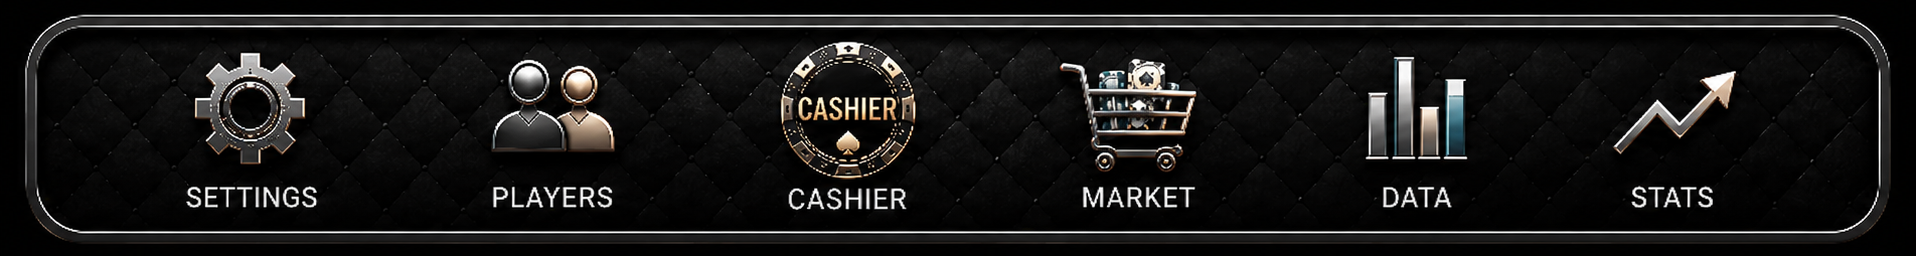
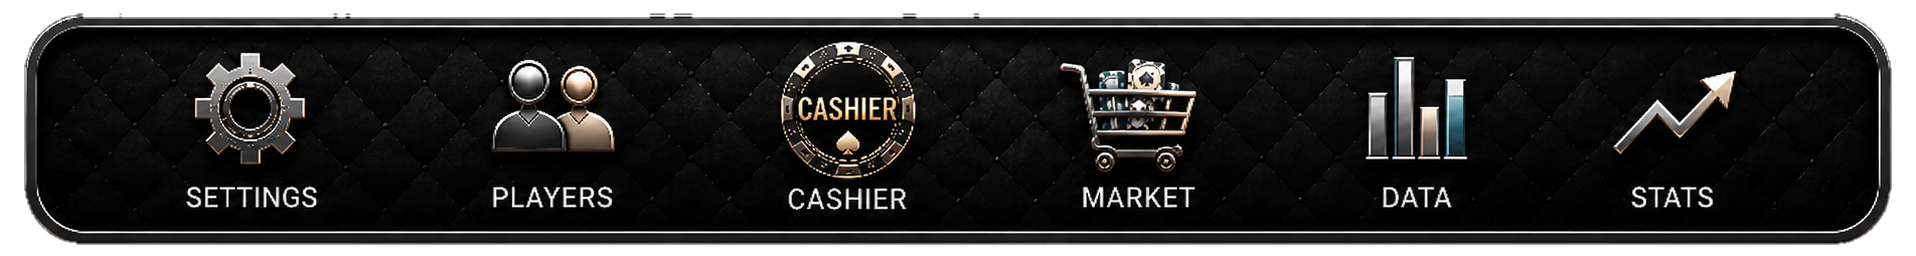
fix(footer): give the frame its own transparency and fill the box on both axes (#2944)
The 1916x256 canvas was opaque, so the four corners outside the frame's
curve painted as black squares on the page, and the canvas's 14px top
gutter drew a black band above the frame because .artworkImage overscanned
horizontally but not vertically.

The asset is re-encoded lossless with an alpha channel (RGB byte-identical
wherever alpha is non-zero; 345KB against the previous 369KB), both
backgrounds are transparent, and the measured frame rect now covers the
footer box on both axes. The footer's own size is unchanged.

Dan, 2026-09-04: "YOU NEED TO CLIP THE BACKGROUND AROUND THE EDGES OF THE
FOOTER FRAME."

Changed region(s): [[0.0, 0.0, 1.0, 1.0]]

diff --git a/tests/footer-clearance.test.ts b/tests/footer-clearance.test.ts
@@ -58,8 +58,20 @@ describe('global Club Arena footer mounting and clearance', () => {
     expect(css).toMatch(/\.viewport\s*\{[\s\S]*?overflow:\s*hidden/);
     expect(css).toMatch(/\.artwork\s*\{[\s\S]*?width:\s*100%/);
     expect(css).toMatch(/\.artwork\s*\{[\s\S]*?height:\s*var\(--bottom-nav-height/);
-    expect(css).toMatch(/\.artworkImage\s*\{[\s\S]*?width:\s*102\.68%/);
-    expect(css).toMatch(/\.artworkImage\s*\{[\s\S]*?transform:\s*translateX\(-50%\)/);
+    // The measured frame (x=25 y=14 1866x230 of a 1916x256 canvas) is scaled
+    // until it covers the footer box on BOTH axes, pushing the canvas's black
+    // gutter off every edge. The horizontal pair has always been here as
+    // `width: 102.68%` + `translateX(-50%)`; the vertical pair replaced
+    // `height: 100%` on 2026-09-04, which was leaving the gutter's 14 top rows
+    // inside the box as a black band above the frame (Dan: "YOU NEED TO CLIP
+    // THE BACKGROUND AROUND THE EDGES OF THE FOOTER FRAME").
+    expect(css).toMatch(/\.artworkImage\s*\{[\s\S]*?width:\s*102\.6795%/);
+    expect(css).toMatch(/\.artworkImage\s*\{[\s\S]*?left:\s*-1\.3398%/);
+    expect(css).toMatch(/\.artworkImage\s*\{[\s\S]*?height:\s*111\.3043%/);
+    expect(css).toMatch(/\.artworkImage\s*\{[\s\S]*?top:\s*-6\.087%/);
+    // A global `img { max-width: 100% }` reset would clamp that overscan and
+    // letterbox the frame back inside the box. This is the immunisation.
+    expect(css).toMatch(/\.artworkImage\s*\{[\s\S]*?max-width:\s*none/);
     expect(css).not.toContain('overflow-x: auto');
     expect(css).not.toContain('width: 640px');
     expect(css).not.toContain('min-width: 640px');
@@ -80,5 +92,33 @@ describe('global Club Arena footer mounting and clearance', () => {
   it('keeps the approved production artwork lossless after the dist optimizer', () => {
     const optimizer = readFileSync(join(ROOT, 'scripts/optimize-dist-media.mjs'), 'utf8');
     expect(optimizer).toContain("{ prefix: 'images/club-footer/', maxDim: 0 }");
+  });
+
+  /**
+   * THE ARTWORK CARRIES ITS OWN TRANSPARENCY (Dan, 2026-09-04).
+   *
+   * The frame is a rounded rectangle drawn on a rectangular canvas. While that
+   * canvas was opaque, the four corners outside the curve were solid black
+   * squares sitting on the page, and no amount of CSS could clip them. Both
+   * halves of the fix have to hold together: the asset must have an alpha
+   * channel, and nothing behind it may paint a colour back in.
+   */
+  it('ships an alpha channel and paints nothing opaque behind it', () => {
+    const art = readFileSync(join(ROOT, 'public/images/club-footer/club-arena-footer.webp'));
+    expect(art.subarray(0, 4).toString('ascii')).toBe('RIFF');
+    expect(art.subarray(8, 12).toString('ascii')).toBe('WEBP');
+    // Lossless WebP: 'VP8L', a 0x2f signature byte, then 14 bits of width-1,
+    // 14 of height-1, and one alpha_is_used bit.
+    expect(art.subarray(12, 16).toString('ascii')).toBe('VP8L');
+    expect(art[20]).toBe(0x2f);
+    const header = art.readUInt32LE(21);
+    expect((header & 0x3fff) + 1).toBe(1916);
+    expect(((header >>> 14) & 0x3fff) + 1).toBe(256);
+    expect((header >>> 28) & 1).toBe(1);
+
+    const css = readFileSync(join(ROOT, 'src/components/club/ClubBottomNav.module.css'), 'utf8');
+    expect(css).toMatch(/\.bottomNav\s*\{[\s\S]*?background:\s*transparent/);
+    expect(css).toMatch(/\.artwork\s*\{[\s\S]*?background:\s*transparent/);
+    expect(css).not.toContain('background: #000');
   });
 });

diff --git a/src/components/club/ClubBottomNav.module.css b/src/components/club/ClubBottomNav.module.css
@@ -14,7 +14,13 @@
   padding-bottom: env(safe-area-inset-bottom, 0px);
   overflow: hidden;
   color: #f4f4f4;
-  background: #000;
+  /* CLIP THE BACKGROUND AROUND THE FRAME (Dan, 2026-09-04): "YOU NEED TO CLIP
+     THE BACKGROUND AROUND THE EDGES OF THE FOOTER FRAME." The artwork is a
+     rounded frame on a rectangular canvas, so an opaque backdrop here paints
+     black squares into its four corners and a band above its top edge. The
+     canvas margin is transparent in the asset now, and this must stay
+     transparent for that to be visible. */
+  background: transparent;
   transform: none;
   translate: none;
   transition: none;
@@ -33,20 +39,37 @@
   width: 100%;
   height: var(--bottom-nav-height, 44px);
   margin: 0;
-  background: #000;
+  background: transparent;
 }
 
 .artworkImage {
   position: absolute;
-  top: 0;
-  left: 50%;
   display: block;
-  /* The source has a 25px built-in black gutter on each 1916px edge. This
-     exact overscan places its visible chrome at viewport x=0 without moving
-     any of the six full-width semantic hit targets off-screen. */
-  width: 102.68%;
-  height: 100%;
-  transform: translateX(-50%);
+
+  /* THE MEASURED FRAME FILLS THIS BOX EXACTLY, ON BOTH AXES.
+     The 1916x256 source canvas carries a built-in black gutter around the
+     frame: 25px on each side, 14px above and 12px below. The frame itself is
+     therefore the rect x=25 y=14 1866x230, and these four numbers are that
+     rect scaled up until it covers the box, with the gutter pushed off every
+     edge:
+         width  = 1916 / 1866 = 102.6795%      left = -25 / 1866 = -1.3398%
+         height =  256 /  230 = 111.3043%      top  = -14 /  230 = -6.0870%
+     The horizontal pair is the overscan that has always put the frame's
+     chrome at viewport x=0. The vertical pair is new: `height: 100%` left the
+     gutter rows inside the box, which is where the black band above the frame
+     came from. Nothing about the footer's own size changes. */
+  top: -6.087%;
+  left: -1.3398%;
+  width: 102.6795%;
+  height: 111.3043%;
+
+  /* A global `img { max-width: 100% }` reset would clamp the overscan above
+     and silently re-letterbox the frame inside the box. This repo has no such
+     reset today; the World Hub did, and it cost a black strip down the right
+     edge of all fourteen of its footers before anyone traced it. */
+  max-width: none;
+  max-height: none;
+
   pointer-events: none;
   user-select: none;
 }

diff --git a/docs/changelog/2026-09-04-footer-frame-background.md b/docs/changelog/2026-09-04-footer-frame-background.md
@@ -1,0 +1,81 @@
+# The footer frame stops carrying a black box around it
+
+**Date:** 2026-09-04
+**Branch:** `fix/footer-frame-background`
+**Reported by:** Dan, with screenshots — "YOU NEED TO CLIP THE BACKGROUND
+AROUND THE EDGES OF THE FOOTER FRAME (SEE ATTACHED IMAGES WITH THE BLACK
+BEHIND THE FRAMES)", then "almost every footer on every page across
+smarter.poker, club arena, and club commander have this same background
+issue."
+
+## What was wrong
+
+`club-arena-footer.webp` is a rounded metal frame drawn on a rectangular
+1916x256 canvas, and that canvas was **opaque**. Two consequences, both
+visible:
+
+1. **The corners.** Outside the frame's curve, the canvas is solid black. With
+   no alpha channel, those four corner wedges are painted onto the page as
+   black squares. Nothing in CSS can clip a colour that is inside the image.
+2. **The band above the frame.** The canvas carries a built-in gutter around
+   the artwork — 25px each side, 14 above, 12 below. `.artworkImage` already
+   overscanned horizontally (`width: 102.68%`) to push the side gutters off
+   screen, but vertically it was `height: 100%`, so the 14 gutter rows stayed
+   inside the box and drew a black strip along the top edge of the footer.
+
+`.bottomNav` and `.artwork` also both declared `background: #000`, which would
+have kept the corners black even after the asset gained transparency.
+
+## What changed
+
+- **`public/images/club-footer/club-arena-footer.webp`** — re-encoded with an
+  alpha channel. The frame is isolated by finding, per row and per column, the
+  first and last run of four consecutive non-black pixels (a run, not a single
+  pixel: the canvas margin carries isolated specks a few units above black,
+  and taking the first lit pixel would drag the edge out into the background
+  and paint a streak), intersecting the two sweeps, flood-filling any interior
+  hole, and feathering the boundary by one pixel so the curve stays
+  anti-aliased. Saved lossless: **RGB is byte-identical to the approved
+  artwork wherever alpha is non-zero** (verified: MSE 0.0 over every visible
+  pixel), and the file is _smaller_ than before — 345,322 bytes against
+  369,146. `scripts/optimize-dist-media.mjs` already skips
+  `images/club-footer/` (`maxDim: 0`), so the build ships these bytes.
+
+- **`ClubBottomNav.module.css`** — `background: transparent` on `.bottomNav`
+  and `.artwork`, and the vertical half of the overscan the horizontal half
+  has always had:
+
+  ```
+  width  = 1916 / 1866 = 102.6795%    left = -25 / 1866 = -1.3398%
+  height =  256 /  230 = 111.3043%    top  = -14 /  230 = -6.0870%
+  ```
+
+  The frame's measured rect (x=25 y=14 1866x230) now covers the footer box
+  exactly on both axes. **The footer's own size does not change** — the box is
+  still `var(--bottom-nav-height)`, `clamp(44px, 13.72vw, 132px)`. What
+  changes is that the frame fills it instead of sitting inside it with black
+  above and below.
+
+  `max-width: none; max-height: none;` was added defensively. This repo has no
+  global image reset today, but the World Hub does, and its
+  `img, video { max-width: 100% }` clamped exactly this kind of overscan and
+  letterboxed all fourteen of its footers before anyone traced it.
+
+## Enforcement
+
+`tests/footer-clearance.test.ts` now pins all four overscan percentages, the
+`max-width: none` immunisation, both transparent backgrounds, and reads the
+asset's own WebP header to assert the alpha bit is set (VP8L, 1916x256,
+`alpha_is_used = 1`). A future "optimisation" that flattens the asset back to
+RGB fails there rather than in Dan's screenshot.
+
+## Not affected
+
+**Club Commander has no footer.** Its routes appear in neither
+`world-footer-navigation.json`'s `routePrefixes` nor
+`bottom-nav-routes.json`, and nothing under `pages/commander`,
+`pages/hub/commander` or `src/components/commander` renders a bottom bar of
+its own. There was nothing to fix there.
+
+The World Hub's fourteen world footers had the identical defect and are fixed
+in that repo on `fix/social-footer-scroll-and-frame`.
